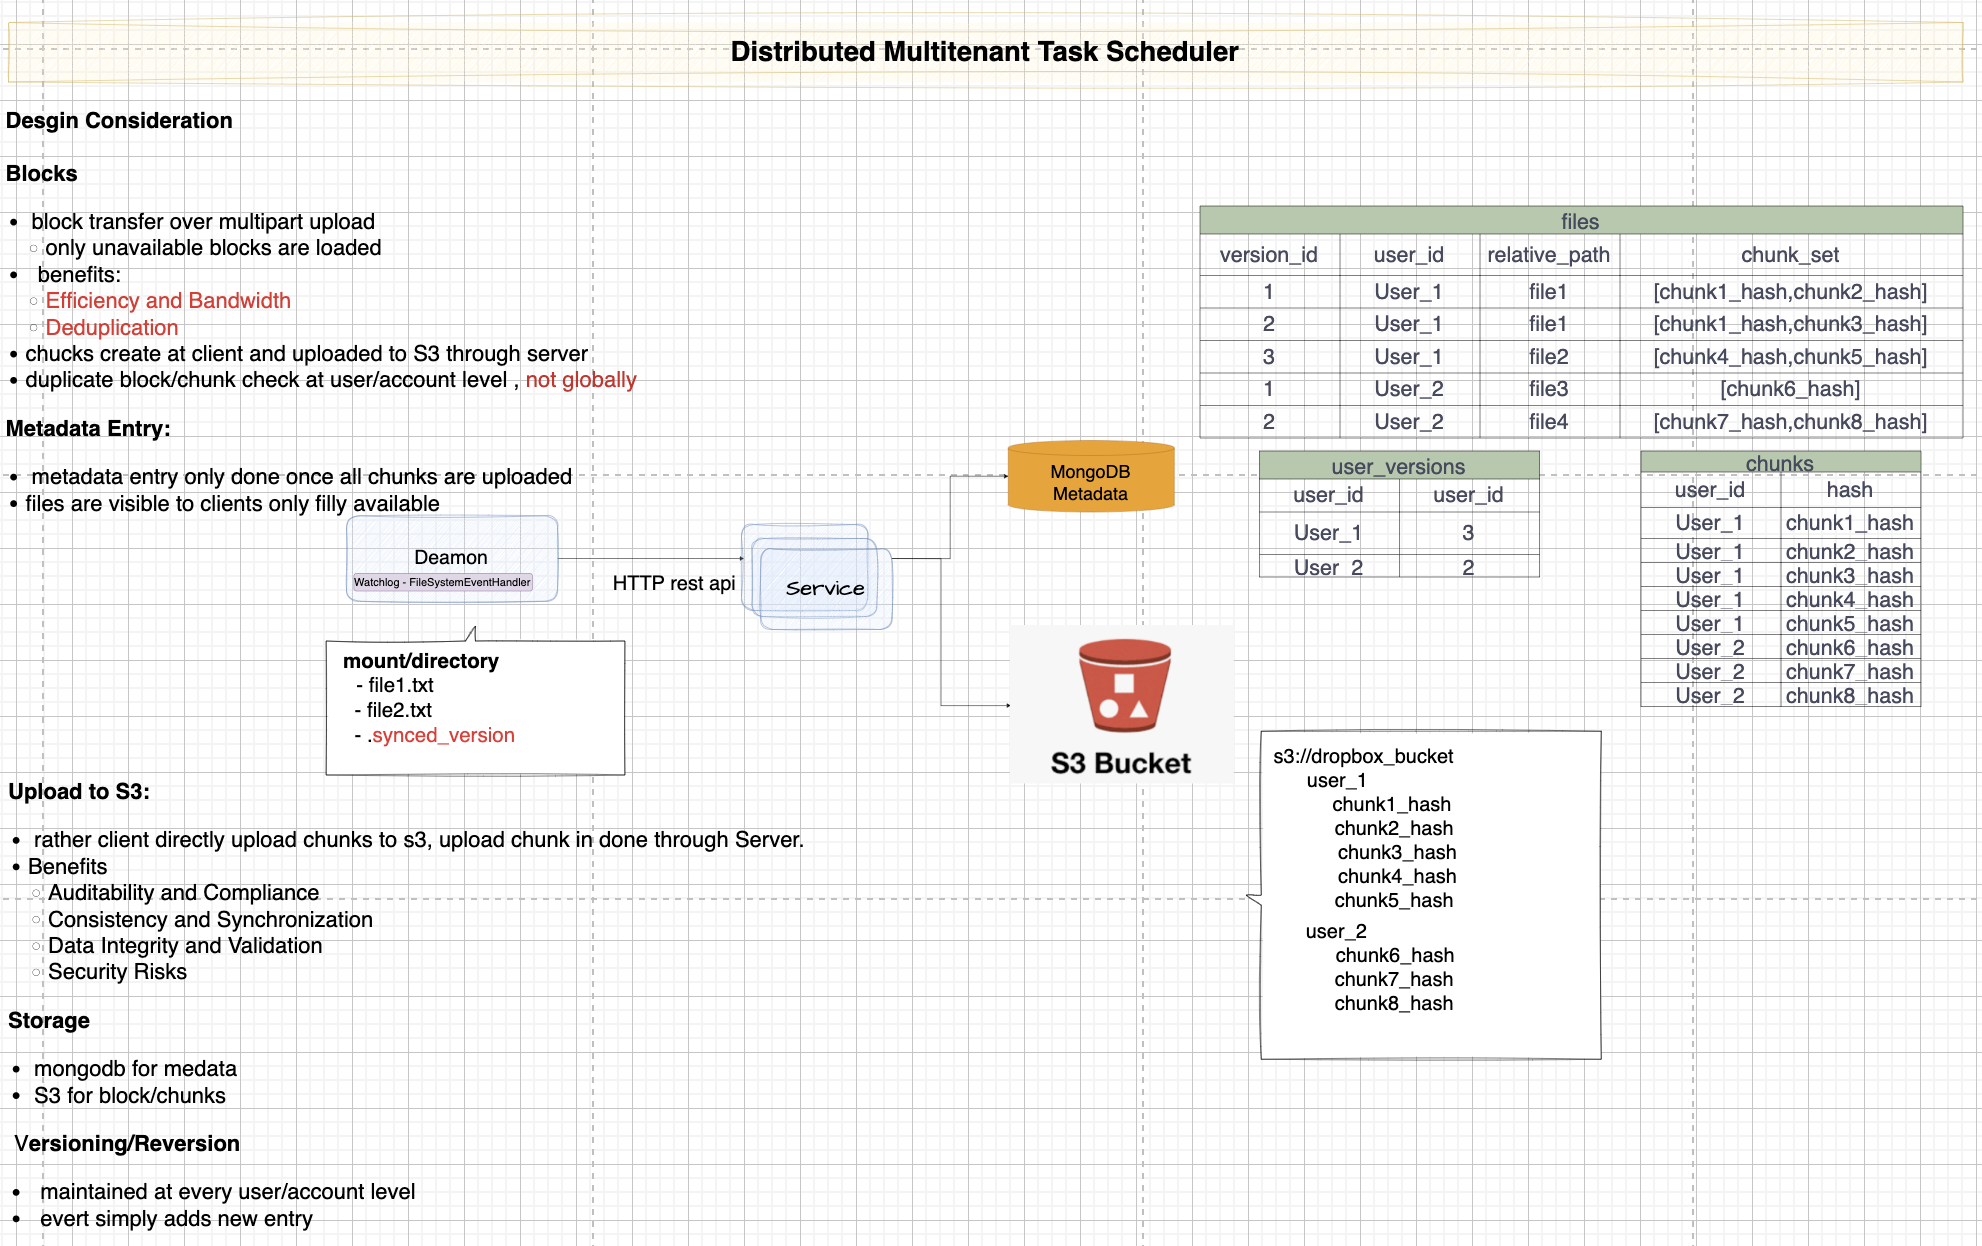
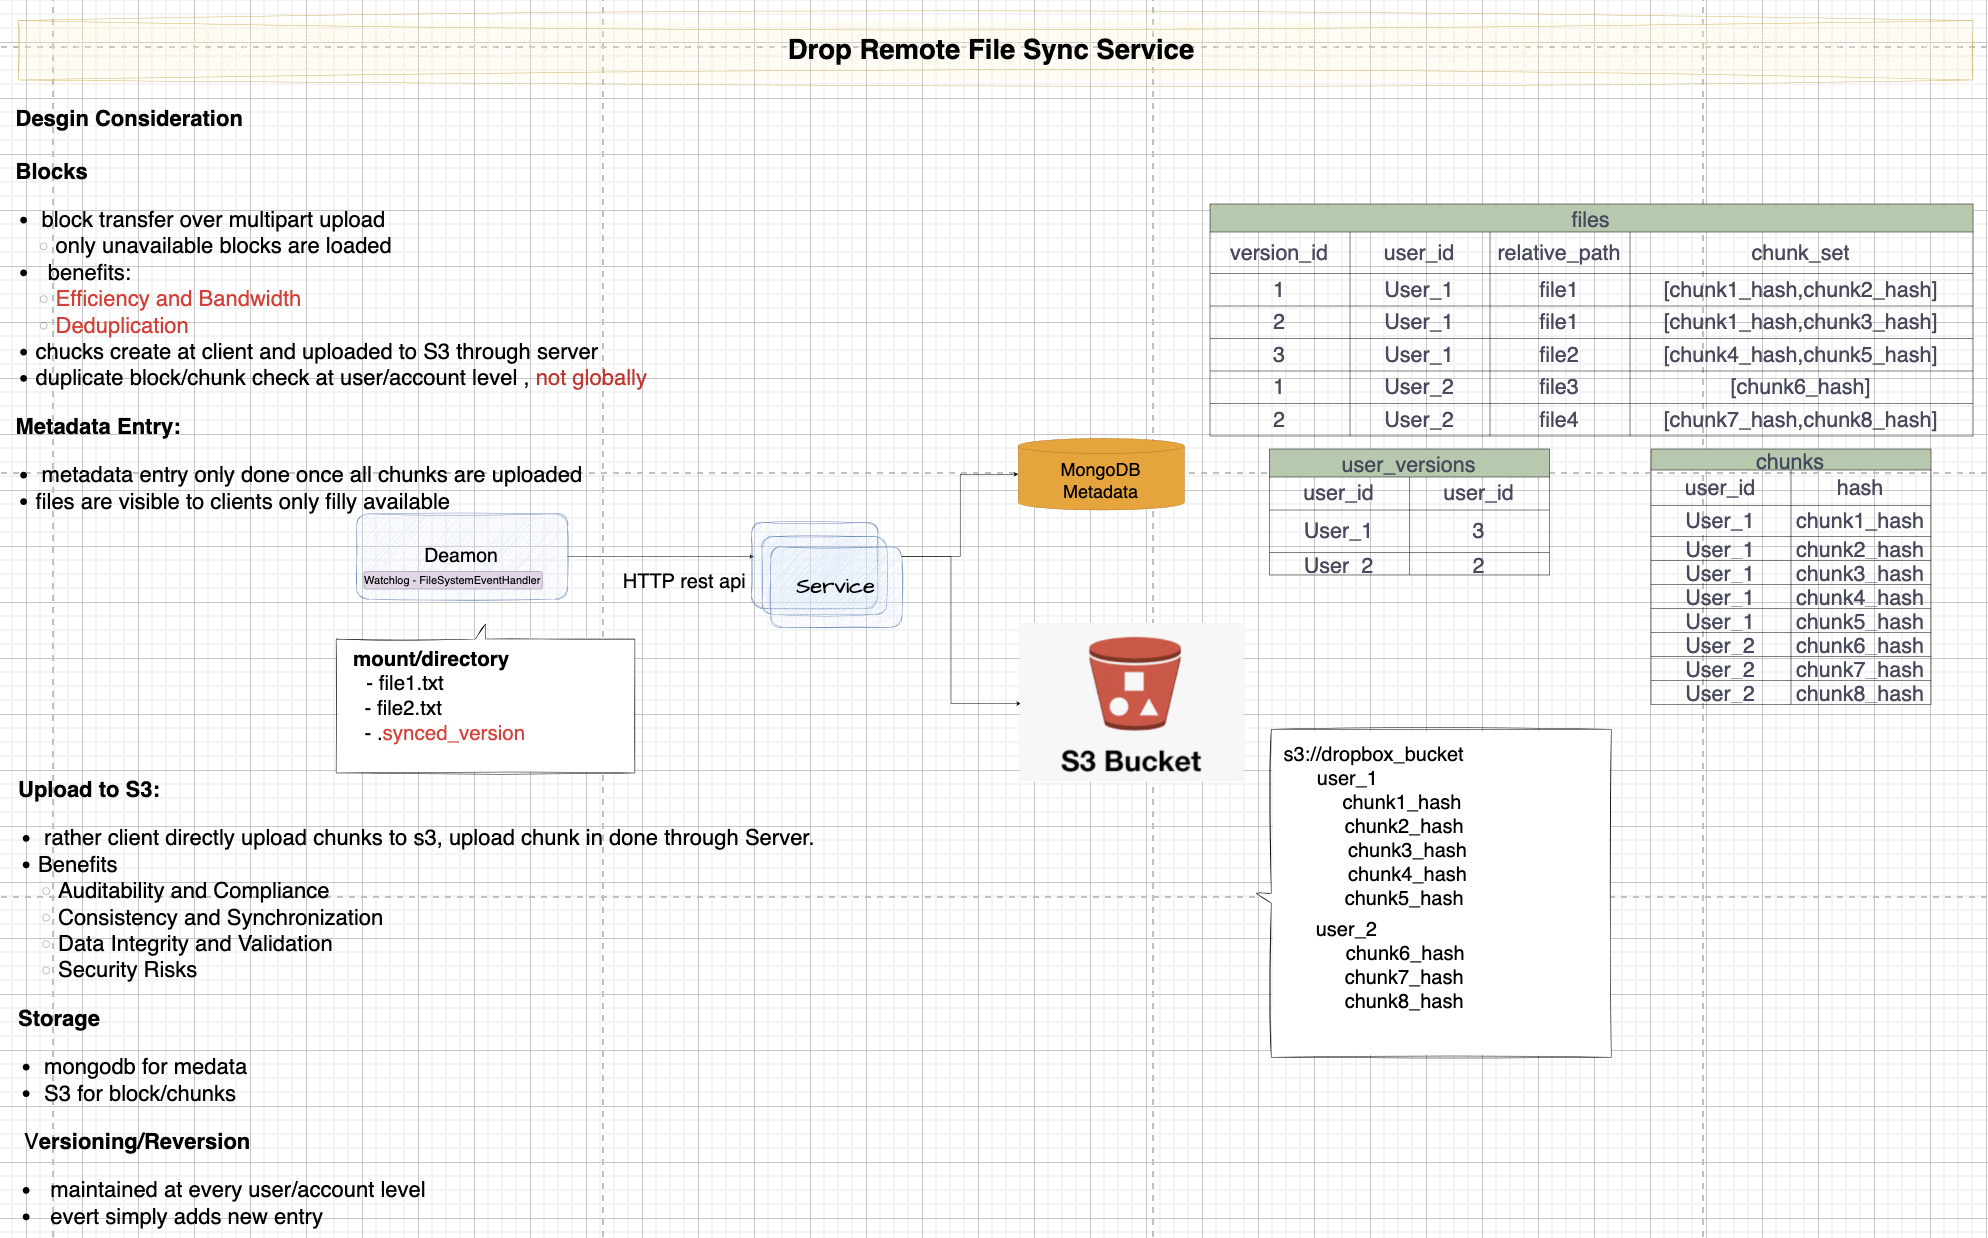
dropbox file sync

diff --git a/dropbox_filesync_app/ReadMe.md b/dropbox_filesync_app/ReadMe.md
@@ -1,12 +1,14 @@
 # Dropbox File Sync Application
-# S3 File Synchronization Application
-# Google Drive File Sync Application
+
+
+## Requirement Specifications:
+
 -  Develop a simplified version of a file synchronization application similar to Dropbox.
     **DISCLAIMER**
     -  `this not a collaborative editor like Google Docs, but a file sync tool`.
     -  `this not GIT or version control system`.
     -  `this is a last-write wins file sync system`.
--  Support file upload, download, and synchronization across multiple clients.
+-  `Focus only on file upload, download, and synchronization across multiple clients`.
 -  **Optimization for efficient storage and bandwidth usage**
     -  upload file efficiently.
     -  addresses duplicate files.
@@ -17,19 +19,30 @@
 -  **Version control for files**
     -  maintain previous versions of files.
     -  client can revert to earlier versions if needed.
--  Logging and error handling for robustness.
+-  **Logging and error handling for robustness**
    -  implement logging mechanisms to track operations and errors.
 
+this is similar to  `S3 File Synchronization Application` or `Google Drive File Sync Application`. 
 
-## Dropbox File Synchronization Conflict Resolution
+
+### Architecture Diagram
+
+Let go over the high-level architecture of the Dropbox File Sync Application:
+
+![dropbox_architecture_diagram](dropbox_architecture_diagram.png)
+
+
+## Design Considerations
+
+### Dropbox File Synchronization Conflict Resolution
+Lets consider a scenario where two clients `Client A` and `Client B` modify the same file while one of them is offline.
 The scenario describes a classic **split-brain** problem in distributed systems, where two different versions of the same file are created concurrently:
 
 - `Client A`: Goes offline, modifies Document.docx locally.
 - `Client B`: Remains online, modifies Document.docx, and successfully syncs the changes to the Dropbox server.
 - `Client A`: Comes back online and attempts to sync.
 
-
-## The Dropbox Resolution Strategy: Conflict Copy
+#### The Dropbox Resolution Strategy: Conflict Copy
 Dropbox avoids overwriting either version of the file. When Client A reconnects, the Dropbox server detects that the file's revision history on the server does not match the file on Client A.
 
 **Action Taken:**
@@ -42,8 +55,8 @@ Dropbox avoids overwriting either version of the file. When Client A reconnects,
 -  The file created by the offline client (Client A) will look like this:
 `Document (Client A's Computer's Name's Conflict Copy YYYY-MM-DD).docx`
 
-## Block-Level Delta Synchronization
-Dropbox uses a highly optimized technique called Block-Level Delta Synchronization.
+### Block-Level Delta Synchronization
+Dropbox uses a highly optimized technique called `Block-Level Delta Synchronization`.
 
 Here is `why this mechanism is preferred over a standard multipart file upload for file synchronization`:
 -   **Efficiency and Bandwidth**: Standard multipart uploads involve breaking the entire file into parts and uploading all parts every time the file is modified. Dropbox breaks every file into small, fixed-size data blocks (e.g., 4MB). If you only change a single sentence in a 1GB document, Dropbox detects which specific blocks have changed and only uploads those delta blocks, not the entire 1GB file. This massively reduces bandwidth and speeds up sync operations.
@@ -52,10 +65,36 @@ Here is `why this mechanism is preferred over a standard multipart file upload f
 
 So, while the final effect is that a large file's data is sent in multiple pieces, the critical difference is that Dropbox only sends the pieces that are new or changed, which is superior to sending the entire file in parts every time.
 
+### Duplicate File Handling
+To handle duplicate files efficiently, the application employs a chunk-based deduplication strategy:
+-   **Chunking**: Files are divided into fixed-size chunks (e.g., 5KB). Each chunk is hashed using SHA256 to generate a unique identifier.
+-   **Hash-Based Storage**: Before uploading a chunk, the client sends chuck list to service to check which chunks are already present on the server. Only missing chunks are uploaded. 
+-   **Metadata Management**: The server maintains metadata mapping files to their constituent chunk hashes. New file version is created in metadata if all chucks are uploaded successfully. 
 
-### Architecture Diagram
+### File Versioning
+The application maintains a version history for each file:
 
-![dropbox_architecture_diagram](dropbox_architecture_diagram.png)
+### Client uploaded chucks directly to blob storage VS Clients uploads chunks through Server.
+-   **Security**: Uploading chunks through the server allows for better control over authentication, authorization, and logging of upload activities.
+-   **Simplicity**: It simplifies the client implementation, as clients do not need to handle direct storage interactions.
+-   **Scalability**: The server can manage load balancing and optimize storage interactions. 
+
+## Multi tenancy :
+The application supports multiple users by isolating their data and operations:
+-   **User Identification**: Each user is identified by a unique user ID. All files and metadata are associated with this ID.
+-   **Data Isolation**: File chunks and metadata are stored in a way that ensures one user's data cannot be accessed by another user.
+        -  `File Version` and `Chunk Hashes` are namespaced by `user ID`. 
+
+## More than one device per user :
+The application allows users to sync files across multiple devices:
+-   **Device Registration**: Each device can be registered under a user's account. The Server tracks version version per user.
+-   **Sync** Each device periodically checks for updates from the server based on the last known version.
+-   **Conflict Resolution**: If multiple devices modify the same file, the server employs a conflict resolution strategy (e.g., last-write-wins or conflict copies).
+
+# Drop boc client/Deomon:
+- Monitors a local mounted directory for file changes using `watchdog`.
+- Periodically checks with the server for updates to download 
+
 
 ### Communication Diagram
 
@@ -64,7 +103,6 @@ So, while the final effect is that a large file's data is sent in multiple piece
 ![dropbox_filedownload_flow](dropbox_filedownload_flow.png)
 
 ![dropbox_filesync_flow](dropbox_filesync_flow.png)
-
 
 
 # Implementation Details
@@ -113,8 +151,7 @@ So, while the final effect is that a large file's data is sent in multiple piece
     ```
     The app will start on http://localhost:8000.
 
--   **Run the Deamon **:
-
+-   **Run the Deamon**:
     ```
     .venv/bin/python -m dropbox_filesync_app.client user1 user1_dir
     ```
